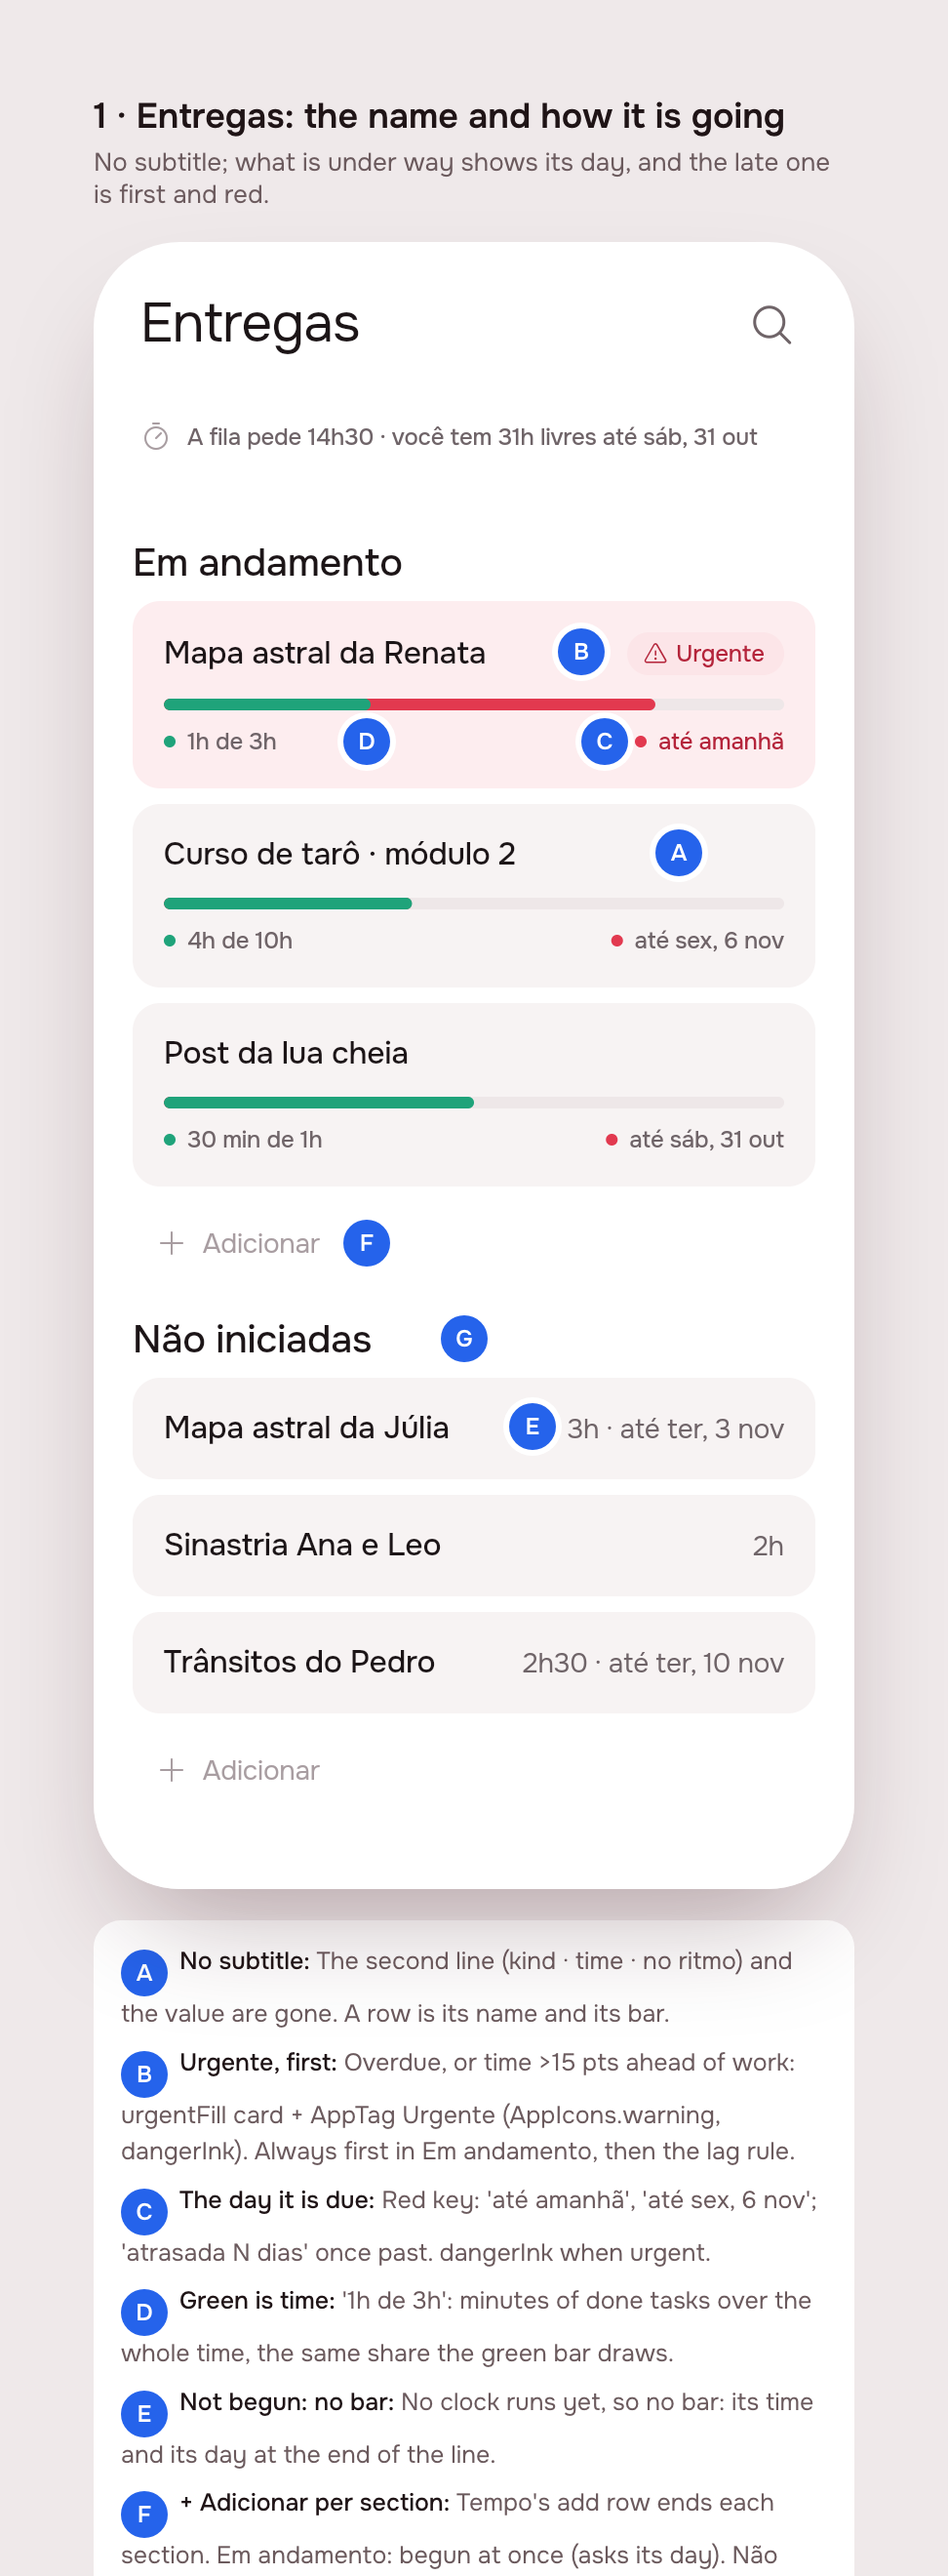
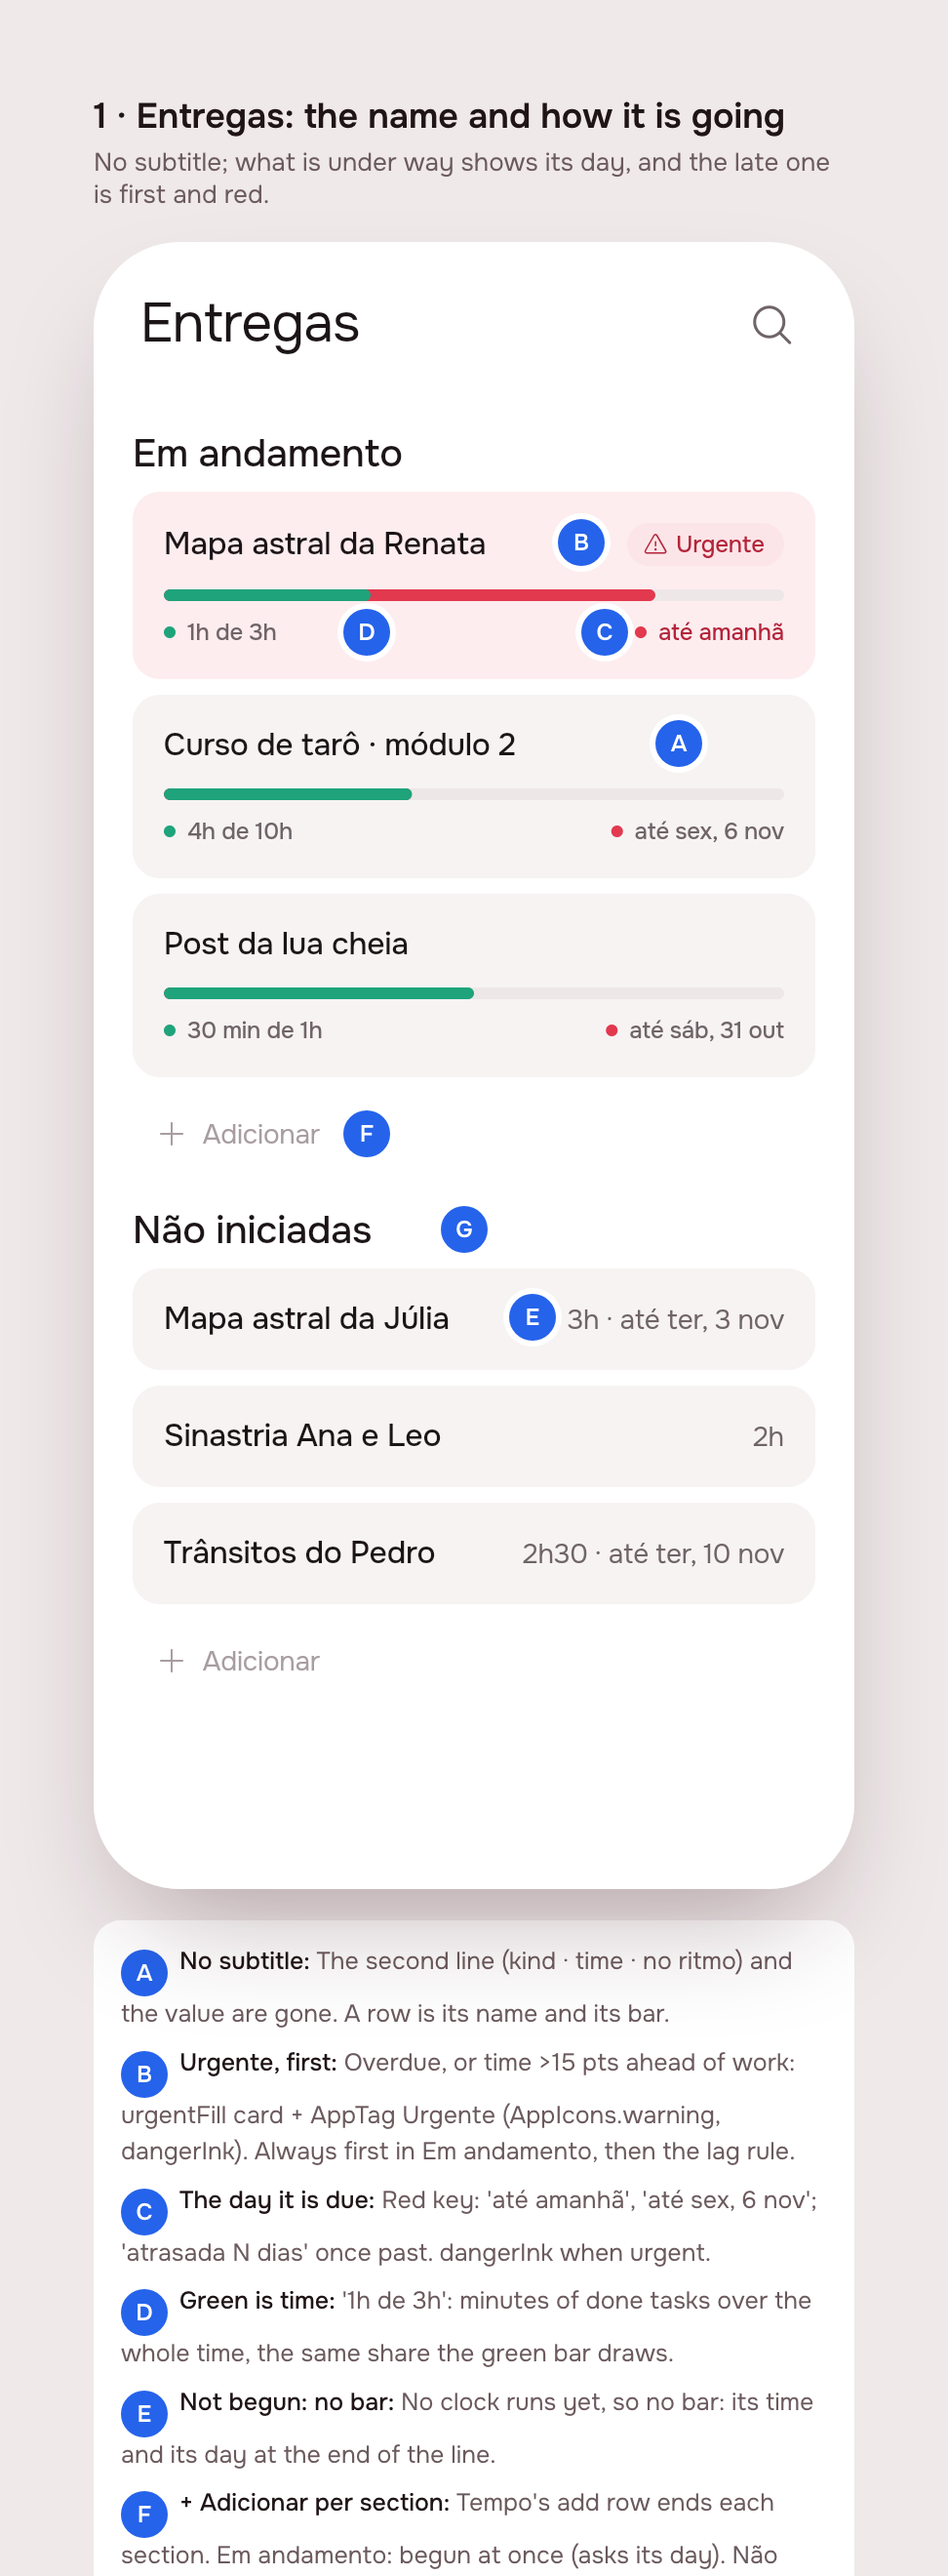
create(#48): fix · Improve deliveries experience

diff --git a/product/delivery/2026-10-27-deliveries/README.md b/product/delivery/2026-10-27-deliveries/README.md
@@ -3,8 +3,9 @@
 Issue [#48](https://github.com/pietroid/lunna/issues/48), **mockup track**,
 designed and built unattended by the queue. The design was approved on
 the issue ("Approve"); the build is sections 3 to 5. The review of the
-build asked to remove the schedule line (open question 1) and merge: see
-*After the review* in section 3.
+build asked to remove the schedule line (open question 1) and merge, and
+then pointed out it was still drawn on the board: see *After the review*
+in section 3.
 
 ## 1. The prompt
 
@@ -30,6 +31,10 @@ Answer on the issue, after the build:
 
 > Remove the line, and then merge it
 
+Answer on the issue, after the line was removed:
+
+> Have you removed the line? I still see it
+
 ## 2. The design
 
 ![The board](img/mockup-board.png)
@@ -37,7 +42,9 @@ Answer on the issue, after the build:
 Each screen alone: [1](img/mockup-1.png) · [2](img/mockup-2.png) ·
 [3](img/mockup-3.png). Pins in [board.json](board.json). Drawn by the real
 app (Lunna) on Tuesday 27 October at 10:00, from
-`app/lib/deliveries_preview.dart`.
+`app/lib/deliveries_preview.dart`. Redrawn after the review from the
+final code, so it no longer shows the schedule line the approved board
+had under the title; nothing else on it changed.
 
 The flow: Entregas is the name of each delivery and how it is going,
 nothing else (1). What is under way shows the day it is due, and the one
@@ -157,6 +164,15 @@ prints above are re-shot from the final code:
   not drawn. `AGENTS.md` and `product/spec/artifacts.md` say so.
 - `.tool/check` on the change: every step green (app analyze, every
   package's tests under Focus and Lunna).
+
+**"I still see it."** The app no longer drew the line, but the
+design board did: it was the approved mockup, shot before the line was
+removed, and it is the picture the issue's comment shows. The board
+(`img/mockup-board.png` and `mockup-1..3.png`) is redrawn by the real
+app from the final code, with the same three scenes and pins moved up
+with the content (56 px; the sheet's pins stay). Now no image on this
+page or on the issue shows the line. No code changed in this round, and
+`.tool/check` stays green.
 
 The merge is the person's (or the queue's) to do: this run leaves the
 change in the branch's files for the PR.
